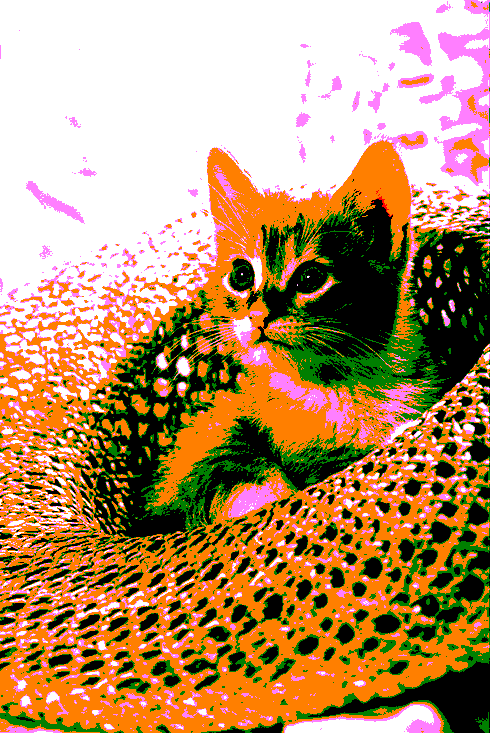
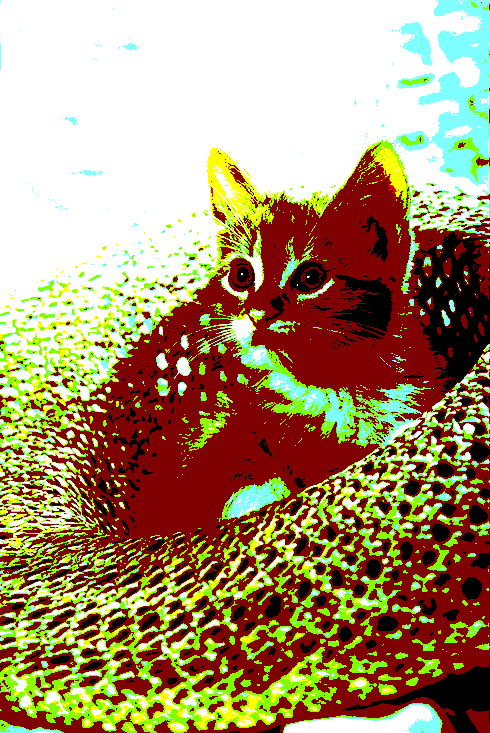
part b of the work

diff --git a/b_work.py b/b_work.py
@@ -1,5 +1,16 @@
 from PIL import Image
 import numpy as np
+import math as mt
 
 original_image = np.array(Image.open("./images/cat.png"))
+
+number_of_cubes = 32
+
+def median_cut_function (cube, n):
+    if (n == 1):
+        return cube
+    else:
+        diff_RGB = np.zeros(3)
+
+        for i in range(len(diff_RGB)):
 
